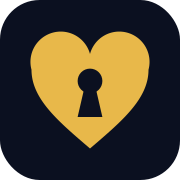
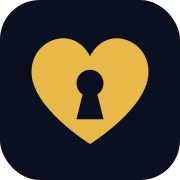
embleme: coeur redessine en courbes, flanc gauche corrige
Le trace melait deux arcs dont le rayon (13) etait plus court que la moitie de
la corde a joindre (26,93 pour 26) : le navigateur agrandissait le rayon, ce qui
aplatissait le flanc gauche. Le coeur est desormais entierement en courbes de
Bezier et parfaitement symetrique (0 pixel asymetrique au controle), la serrure
recentree sur sa masse. En-tete, accueil, icones et image de partage sont
regeneres depuis ce meme trace ; scratchpad/icons.py rejoue la generation.

Claude-Session: https://claude.ai/code/session_015pR8VyuXF2X7JXXTJg9wDd

diff --git a/src/components/Emblem.tsx b/src/components/Emblem.tsx
@@ -1,14 +1,16 @@
 // Emblème du site : un cœur stylisé percé d'une serrure. Dessin original.
+// Le cœur est tracé en courbes de Bézier uniquement et parfaitement symétrique
+// (la version précédente utilisait deux arcs dont le rayon était trop court pour
+// la corde à joindre : le navigateur l'agrandissait, ce qui aplatissait le flanc gauche).
+export const HEART_PATH =
+  "M32 56 C32 56 6 40 6 24 C6 14 14 9 20 9 C26 9 30 13 32 17 C34 13 38 9 44 9 C50 9 58 14 58 24 C58 40 32 56 32 56 Z";
+
 export function Emblem({ className = "h-8 w-8" }: { className?: string }) {
   return (
     <svg viewBox="0 0 64 64" aria-hidden="true" className={className} fill="none">
-      <path
-        d="M32 58 C18 46 6 36 6 23 A13 13 0 0 1 32 16 A13 13 0 0 1 58 23 C58 36 46 46 32 58 Z"
-        fill="currentColor"
-        opacity="0.92"
-      />
-      <circle cx="32" cy="28" r="5.5" fill="var(--bg)" />
-      <path d="M29.5 31 L26.5 44 H37.5 L34.5 31 Z" fill="var(--bg)" />
+      <path d={HEART_PATH} fill="currentColor" opacity="0.92" />
+      <circle cx="32" cy="29" r="6" fill="var(--bg)" />
+      <path d="M29.2 32 L26 45 H38 L34.8 32 Z" fill="var(--bg)" />
     </svg>
   );
 }

diff --git a/scratchpad/icons.py b/scratchpad/icons.py
@@ -1,0 +1,77 @@
+"""Génère les icônes et l'image de partage à partir du tracé exact de l'emblème du site."""
+import cairosvg, io, glob, random
+from PIL import Image, ImageDraw, ImageFont, ImageFilter
+
+HEART = ("M32 56 C32 56 6 40 6 24 C6 14 14 9 20 9 C26 9 30 13 32 17 "
+         "C34 13 38 9 44 9 C50 9 58 14 58 24 C58 40 32 56 32 56 Z")
+HOLE = '<circle cx="32" cy="29" r="6" fill="{bg}"/><path d="M29.2 32 L26 45 H38 L34.8 32 Z" fill="{bg}"/>'
+GOLD, BG = "#e8b84a", "#0b1020"
+
+
+def emblem_svg(size, pad=0.14, bg=BG, rounded=True):
+    inner = 64 / (1 - 2 * pad)
+    off = (inner - 64) / 2
+    radius = inner * 0.22 if rounded else 0
+    return f'''<svg xmlns="http://www.w3.org/2000/svg" viewBox="0 0 {inner} {inner}" width="{size}" height="{size}">
+  <rect width="{inner}" height="{inner}" rx="{radius}" fill="{bg}"/>
+  <g transform="translate({off},{off})"><path d="{HEART}" fill="{GOLD}"/>{HOLE.format(bg=bg)}</g></svg>'''
+
+
+def png(size, **kw):
+    return Image.open(io.BytesIO(cairosvg.svg2png(bytestring=emblem_svg(size, **kw).encode(),
+                                                  output_width=size, output_height=size))).convert("RGBA")
+
+
+def icons():
+    png(512).save("public/icon-512.png")
+    png(192).save("public/icon-192.png")
+    png(180, pad=0.10).save("public/apple-touch-icon.png")
+    png(64, pad=0.06).save("public/favicon.ico", format="ICO", sizes=[(16, 16), (32, 32), (48, 48), (64, 64)])
+
+
+def og():
+    W, H = 1200, 630
+    img = Image.new("RGB", (W, H), BG)
+    d = ImageDraw.Draw(img)
+    for y in range(H):
+        t = y / H
+        d.line([(0, y), (W, y)], fill=(int(11 + 20 * t), int(16 + 26 * t), int(32 + 58 * t)))
+    halo = Image.new("RGB", (W, H), BG)
+    hd = ImageDraw.Draw(halo)
+    hd.ellipse([-260, -360, 720, 400], fill="#1f3a80")
+    hd.ellipse([820, 300, 1500, 900], fill="#3a2d10")
+    img = Image.blend(img, halo.filter(ImageFilter.GaussianBlur(150)), 0.55)
+    d = ImageDraw.Draw(img)
+    random.seed(7)
+    for _ in range(90):
+        x, y = random.randint(0, W), random.randint(0, H)
+        s = random.choice([1, 1, 2])
+        d.ellipse([x, y, x + s, y + s], fill=(230, 230, 245))
+    svg = f'<svg xmlns="http://www.w3.org/2000/svg" viewBox="0 0 64 64"><path d="{HEART}" fill="{GOLD}"/>{HOLE.format(bg=BG)}</svg>'
+    em = Image.open(io.BytesIO(cairosvg.svg2png(bytestring=svg.encode(), output_width=300, output_height=300))).convert("RGBA")
+    img.paste(em, (60, 165), em)
+
+    def font(size, bold=True):
+        f = glob.glob("/usr/share/fonts/**/DejaVuSerif%s.ttf" % ("-Bold" if bold else ""), recursive=True)
+        return ImageFont.truetype(f[0], size) if f else ImageFont.load_default()
+
+    X = 400
+    def fit(text, size, bold=True, max_w=W - X - 60):
+        f = font(size, bold)
+        while d.textlength(text, font=f) > max_w and size > 12:
+            size -= 2
+            f = font(size, bold)
+        return f
+
+    d.text((X, 200), "KINGDOM HEARTS", font=fit("KINGDOM HEARTS", 72), fill=(240, 238, 250))
+    d.text((X + 2, 286), "U N I V E R S", font=fit("U N I V E R S", 46), fill=(232, 184, 74))
+    d.rectangle([X, 356, X + 500, 359], fill=(70, 82, 125))
+    d.text((X, 380), "L'encyclopédie francophone de la saga", font=fit("L'encyclopédie francophone de la saga", 32, False), fill=(184, 193, 220))
+    d.text((X, 432), "Jeux · Personnages · Mondes · Keyblades · Histoire", font=fit("Jeux · Personnages · Mondes · Keyblades · Histoire", 26, False), fill=(140, 150, 180))
+    img.save("public/og.png", "PNG", optimize=True)
+
+
+if __name__ == "__main__":
+    icons()
+    og()
+    print("icônes et image de partage régénérées")
